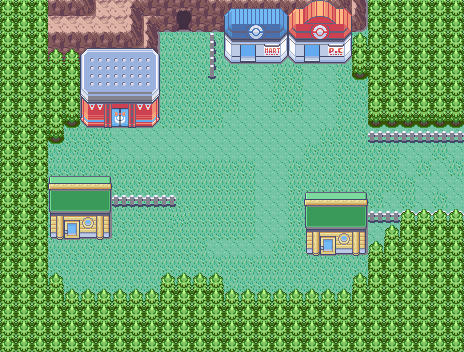
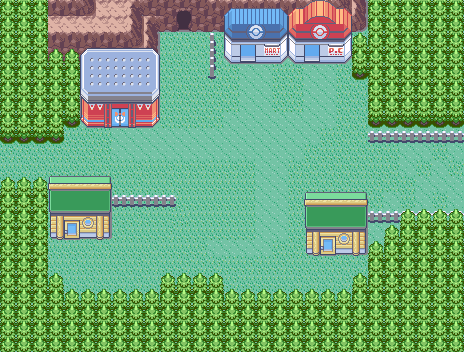
숲 지형 추가

Changed region(s): [[0.0, 0.375, 0.1207, 0.5312]]

diff --git a/core/src/com/pokemon/world/Forest.java b/core/src/com/pokemon/world/Forest.java
@@ -1,0 +1,78 @@
+package com.pokemon.world;
+
+import com.badlogic.gdx.Gdx;
+import com.badlogic.gdx.Input;
+import com.pokemon.game.Pokemon;
+import com.pokemon.model.*;
+import com.pokemon.screen.GameScreen;
+import com.pokemon.util.ObjectGenerator;
+
+import java.util.ArrayList;
+
+import static com.pokemon.game.Settings.SCALED_TILE_SIZE;
+
+public class Forest implements World {
+    private final TileMap map = new TileMap(24, 20);
+    private GameScreen gameScreen;
+    private Player player;
+    private Pokemon game;
+    private ArrayList<WorldObject> collisionObjects;
+    private Portal mainWorldPortal;
+
+    public Forest(Player player, Pokemon game, GameScreen gameScreen) {
+        this.player = player;
+        this.game = game;
+        this.gameScreen = gameScreen;
+
+        for (int x = 0; x < map.getWidth(); x++) {
+            for (int y = 0; y < map.getHeight(); y++) {
+                map.tiles[x][y] = new Tile(x, y);
+            }
+        }
+
+        collisionObjects = ObjectGenerator.generateCollisionObject("ForestCollision");
+        renderList.clear();
+        renderList.add(player);
+        renderList.addAll(ObjectGenerator.generateObject("Forest"));
+
+        mainWorldPortal = new Portal(0,13,1,4);
+    }
+
+    @Override
+    public TileMap getMap() {
+        return map;
+    }
+
+    @Override
+    public ArrayList<WorldObject> getCollisionObjects() {
+        return collisionObjects;
+    }
+
+    @Override
+    public String getBackground() {
+        return "Forest";
+    }
+
+    @Override
+    public void update() {
+        if (player.x < 0) {
+            player.x = 0;
+        }
+        if (player.y < 0) {
+            player.y = 0;
+        }
+        if (player.x > map.getWidth() * SCALED_TILE_SIZE - SCALED_TILE_SIZE) {
+            player.x = map.getWidth() * SCALED_TILE_SIZE - SCALED_TILE_SIZE;
+        }
+        if (player.y > map.getHeight() * SCALED_TILE_SIZE - SCALED_TILE_SIZE) {
+            player.y = map.getHeight() * SCALED_TILE_SIZE - SCALED_TILE_SIZE;
+        }
+        if (Gdx.input.isKeyJustPressed(Input.Keys.X)) {
+            if (mainWorldPortal.overlaps(player) && player.getFacing() == DIRECTION.WEST) {
+                GameScreen.setWorld(new MainWorld(player,game,gameScreen));
+                player.setX(28);
+                player.setY(10.5f);
+            }
+        }
+    }
+}

diff --git a/core/src/com/pokemon/world/MainWorld.java b/core/src/com/pokemon/world/MainWorld.java
@@ -20,7 +20,7 @@ public class MainWorld implements World {
     private ArrayList<WorldObject> collisionObjects;
     private TransitionScreen transitionScreen;
     private GameScreen gameScreen;
-    private Portal homePortal,minePortal,fieldPortal,rankBoard;
+    private Portal homePortal,minePortal,forestPortal,rankBoard;
 
     public MainWorld(Player player, Pokemon game, GameScreen gameScreen) {
         this.player = player;
@@ -41,6 +41,7 @@ public class MainWorld implements World {
         rankBoard = new Portal(6, 12, 1, 1);
         homePortal = new Portal(13, 6, 1, 1);
         minePortal = new Portal(11,19,1,1);
+        forestPortal = new Portal(28,9,1,4);
     }
 
     @Override
@@ -83,6 +84,13 @@ public class MainWorld implements World {
                 player.setX(8);
                 player.setY(2);
             }
+
+            if (forestPortal.overlaps(player) && player.getFacing() == DIRECTION.EAST) {
+                GameScreen.setWorld(new Forest(player,game,gameScreen));
+                player.setX(0);
+                player.setY(15.5f);
+            }
+
             if (rankBoard.overlaps(player) && player.getFacing() == DIRECTION.NORTH) {
                 if (gameScreen.getUiStack().isEmpty()) {
                     gameScreen.pushUi(new window(gameScreen, game, player));

diff --git a/core/src/com/pokemon/model/Player.java b/core/src/com/pokemon/model/Player.java
@@ -26,7 +26,7 @@ public class Player extends Rectangle implements RenderHelper, Comparable<Render
     private float animTimer;
 
     public Player(int x, int y, AnimationSet<TextureRegion> animations) {
-        this.width = 31;
+        this.width = 30;
         this.height = 24;
         this.x = x;
         this.y = y;

diff --git a/core/src/com/pokemon/game/Settings.java b/core/src/com/pokemon/game/Settings.java
@@ -4,5 +4,5 @@ public class Settings {
     public static int TILE_SIZE = 16;
     public static int SCALE = 2;
     public static int SCALED_TILE_SIZE = TILE_SIZE * SCALE;
-    public static int PLAYER_MOVE_SPEED = 150;
+    public static int PLAYER_MOVE_SPEED = 300;
 }
